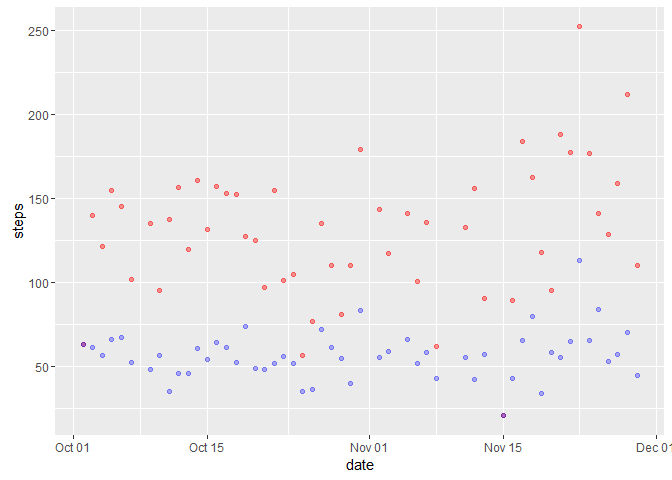
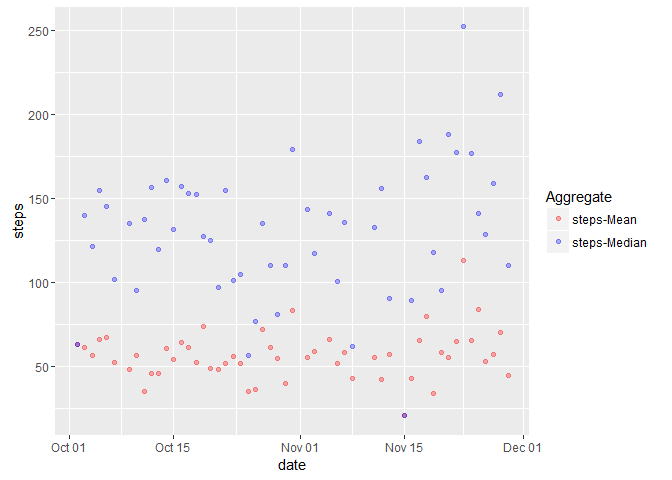
3/4 done

diff --git a/PA1_template.html b/PA1_template.html
@@ -149,36 +149,55 @@ if(!exists(&quot;activity&quot;)){
    # unzip(&quot;activity.zip&quot;)
   activity&lt;- read.csv(&quot;activity.csv&quot;)
 }
-activity&lt;-activity[complete.cases(activity),]
+
 activity$date&lt;-ymd(as.character(activity$date))</code></pre>
 </div>
 <div id="what-is-mean-total-number-of-steps-taken-per-day" class="section level2">
 <h2>What is mean total number of steps taken per day?</h2>
-<pre class="r"><code>activityByDay&lt;-activity[complete.cases(activity),]
-activityByDay&lt;- group_by(activity[,c(1:2)],date) %&gt;%summarise(sum(steps,na.rm = TRUE),
-                                                              mean(steps[steps&gt;0],na.rm = TRUE),
-                                                              median(steps[steps&gt;0],na.rm=TRUE))
+<p>(ignored for median and mean values of 0)</p>
+<pre class="r"><code>activityByDay&lt;- group_by(activity[,c(1:2)],date) %&gt;%summarise(median(steps[steps&gt;0]),
+                                                              mean(steps[steps&gt;0]),
+                                                              sum(steps))
 
-names(activityByDay)&lt;-c(&quot;date&quot;,&quot;steps&quot;,&quot;stepsMean&quot;,&quot;stepsMedian&quot;)
+names(activityByDay)&lt;-c(&quot;date&quot;,&quot;steps-Mean&quot;,&quot;steps-Median&quot;,&quot;steps&quot;)
 
 totalStepsaDay &lt;- ggplot(activityByDay, aes(x=date, weights=steps)) + 
   geom_bar()+labs(y=&quot;total of steps a day&quot;)
 print(totalStepsaDay)</code></pre>
[1 lines of base64/hex data omitted]
-<pre class="r"><code>#activityByDay.melt&lt;- melt(activityByDay, id.vars=&quot;date&quot;, variable.name = &quot;aggregate&quot;, value.name = &quot;Steps&quot;
+<pre class="r"><code>activityByDay.melt&lt;- melt(activityByDay[,c(1:3)], id.vars=&quot;date&quot;,variable.name =&quot;Aggregate&quot;, value.name=&quot;steps&quot;)
 
-MeanAndMediumADay &lt;-ggplot(data=activityByDay,aes(date,stepsMean)) + geom_point(alpha=.4,color=&quot;red&quot;) +
-                     geom_point(aes(date,stepsMedian),alpha=.3,color=&quot;blue&quot;) + labs(y=&quot;steps&quot;) 
+MeanAndMediumADay &lt;-ggplot(data=activityByDay.melt,aes(date,steps,col=Aggregate)) + geom_point(alpha=0.3) + scale_color_manual(values = c(&quot;steps-Mean&quot; = 'red','steps-Median' = 'blue')) 
    
-                   
 print(MeanAndMediumADay)</code></pre>
[2 lines of base64/hex data omitted]
 </div>
 <div id="what-is-the-average-daily-activity-pattern" class="section level2">
 <h2>What is the average daily activity pattern?</h2>
+<pre class="r"><code>activityByInterval&lt;- group_by(activity[,-2],interval) %&gt;%summarise(mean(steps[steps&gt;0],na.rm=TRUE))
+names(activityByInterval)&lt;- c(&quot;interval&quot;, &quot;stepMean&quot;)
+ 
+IntervalMean &lt;- ggplot(data=activityByInterval,aes(x=interval,y=stepMean)) + geom_point(alpha=.3)
+print(IntervalMean)</code></pre>
+<pre><code>## Warning: Removed 19 rows containing missing values (geom_point).</code></pre>
[1 lines of base64/hex data omitted]
+<pre class="r"><code>maxInterval &lt;- filter(activityByInterval,stepMean==max(activityByInterval$stepMean, na.rm = TRUE))
+maxInterval</code></pre>
+<pre><code>## Source: local data frame [1 x 2]
+## 
+##   interval stepMean
+##      (int)    (dbl)
+## 1      835 352.4839</code></pre>
 </div>
 <div id="imputing-missing-values" class="section level2">
 <h2>Imputing missing values</h2>
+<pre class="r"><code>NumberOfNA &lt;- sum(is.na(activity$steps))
+datesNa&lt;- sum(is.na(activity$date))
+
+NumberOfNA</code></pre>
+<pre><code>## [1] 2304</code></pre>
+<pre class="r"><code>datesNa</code></pre>
+<pre><code>## [1] 0</code></pre>
 </div>
 <div id="are-there-differences-in-activity-patterns-between-weekdays-and-weekends" class="section level2">
 <h2>Are there differences in activity patterns between weekdays and weekends?</h2>

diff --git a/PA1_template.md b/PA1_template.md
@@ -71,20 +71,20 @@ if(!exists("activity")){
    # unzip("activity.zip")
   activity<- read.csv("activity.csv")
 }
-activity<-activity[complete.cases(activity),]
+
 activity$date<-ymd(as.character(activity$date))
 ```
 
 
-## What is mean total number of steps taken per day?
+## What is mean total number of steps taken per day?  
+(ignored for median and mean values of 0)
 
 ```r
-activityByDay<-activity[complete.cases(activity),]
-activityByDay<- group_by(activity[,c(1:2)],date) %>%summarise(sum(steps,na.rm = TRUE),
-                                                              mean(steps[steps>0],na.rm = TRUE),
-                                                              median(steps[steps>0],na.rm=TRUE))
+activityByDay<- group_by(activity[,c(1:2)],date) %>%summarise(median(steps[steps>0]),
+                                                              mean(steps[steps>0]),
+                                                              sum(steps))
 
-names(activityByDay)<-c("date","steps","stepsMean","stepsMedian")
+names(activityByDay)<-c("date","steps-Mean","steps-Median","steps")
 
 totalStepsaDay <- ggplot(activityByDay, aes(x=date, weights=steps)) + 
   geom_bar()+labs(y="total of steps a day")
@@ -94,12 +94,10 @@ print(totalStepsaDay)
 ![](PA1_template_files/figure-html/unnamed-chunk-3-1.png)
 
 ```r
-#activityByDay.melt<- melt(activityByDay, id.vars="date", variable.name = "aggregate", value.name = "Steps"
+activityByDay.melt<- melt(activityByDay[,c(1:3)], id.vars="date",variable.name ="Aggregate", value.name="steps")
 
-MeanAndMediumADay <-ggplot(data=activityByDay,aes(date,stepsMean)) + geom_point(alpha=.4,color="red") +
-                     geom_point(aes(date,stepsMedian),alpha=.3,color="blue") + labs(y="steps") 
+MeanAndMediumADay <-ggplot(data=activityByDay.melt,aes(date,steps,col=Aggregate)) + geom_point(alpha=0.3) + scale_color_manual(values = c("steps-Mean" = 'red','steps-Median' = 'blue')) 
    
-                   
 print(MeanAndMediumADay)
 ```
 
@@ -108,10 +106,54 @@ print(MeanAndMediumADay)
 
 ## What is the average daily activity pattern?
 
+```r
+activityByInterval<- group_by(activity[,-2],interval) %>%summarise(mean(steps[steps>0],na.rm=TRUE))
+names(activityByInterval)<- c("interval", "stepMean")
+ 
+IntervalMean <- ggplot(data=activityByInterval,aes(x=interval,y=stepMean)) + geom_point(alpha=.3)
+print(IntervalMean)
+```
+
+```
+## Warning: Removed 19 rows containing missing values (geom_point).
+```
+
+![](PA1_template_files/figure-html/unnamed-chunk-4-1.png)
+
+```r
+maxInterval <- filter(activityByInterval,stepMean==max(activityByInterval$stepMean, na.rm = TRUE))
+maxInterval
+```
+
+```
+## Source: local data frame [1 x 2]
+## 
+##   interval stepMean
+##      (int)    (dbl)
+## 1      835 352.4839
+```
 
 
 ## Imputing missing values
 
+```r
+NumberOfNA <- sum(is.na(activity$steps))
+datesNa<- sum(is.na(activity$date))
+
+NumberOfNA
+```
+
+```
+## [1] 2304
+```
+
+```r
+datesNa
+```
+
+```
+## [1] 0
+```
 
 
 ## Are there differences in activity patterns between weekdays and weekends?
